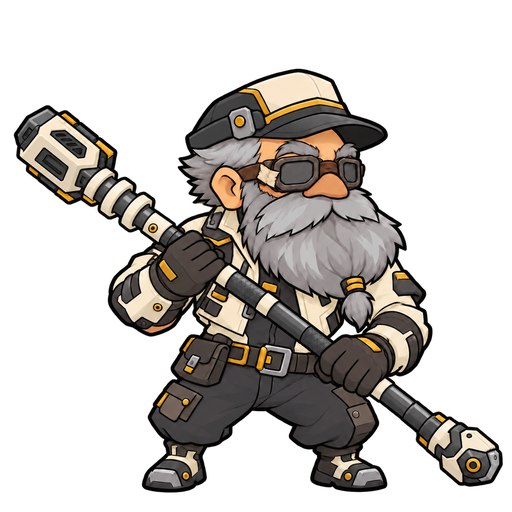
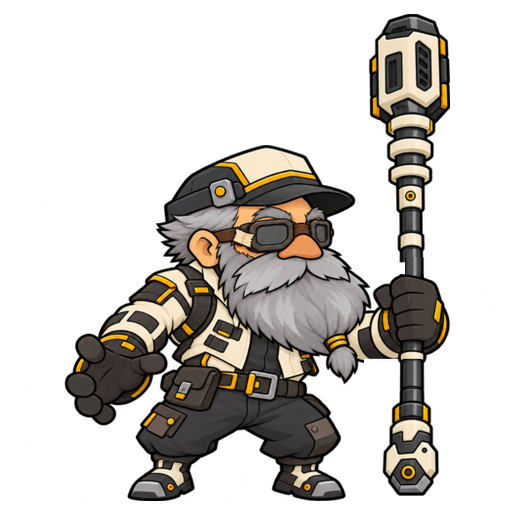
16 네온 카르덴 시작: 새 원화(러스트와 같은 자세, 봉 세워 쥠) 합격 — 마이룸 그림 char_0016 교체, 리그 폴더·STATUS
Claude-Session: https://claude.ai/code/session_015ytCrWApV92AMmnGMogyWc

diff --git a/assets/rig/carden-neon/STATUS.md b/assets/rig/carden-neon/STATUS.md
@@ -1,0 +1,17 @@
+# 16 네온 카르덴 (carden-neon) — 상태
+
+## 2026-10-18 11:00 시작 (DHL "러스트 카르덴과 동일한 걸음, 공격, 모션, 인사 없이" · "핵심조건 기존 러스트와 동일하게")
+- 기준 리그: `assets/rig/carden-rust/` (6 러스트 카르덴 v10). 걸음·찌르기·바지 고정 다리·표정 방식(고글 그대로, 눈썹·코·입만)·게임 연결을 그대로 가져오고 조각·관절점만 새로 잼
+- 결정: 대기·달리기 = 러스트와 같은 자세(먼 손 봉 세워 쥠, 가까운 손 편 장갑) · 찌를 때 앞 = 봉 큰 머리 · **인사 없음**(waveImg 없음, 마이룸 반응은 몸 동작)
+- 요청 그림: 0 새 원화 → 1 조각 시트(6×6, 러스트 31칸 순서, 인사 손 칸 = 땋은 수염 끝) → 2 찌르기 쥔 손 2개(러스트 grip2 구성)
+
+## 11:21 새 원화 받음 (0번) — 합격
+- 러스트 원화(char_0006)와 겹침: 발바닥 500 = 500, 머리 꼭대기 145(모자) / 152(러스트 맨머리), 봉 축 x≈410(러스트 ≈409), 봉 기울기 0.1°, 봉 길이 14→500(러스트 11→500)
+- 다리 벌림이 양쪽으로 약 10px 넓음(가까운 부츠 왼쪽 끝 127 / 137, 먼 부츠 오른쪽 끝 340 / 329) → 다리 관절점은 새로 잼
+- 손: 편 장갑 손가락 4 + 엄지, 봉 쥔 주먹 손가락 4 + 엄지(엄지 위)
+- 봉 길이는 B(대각선 원화)보다 짧음 — 세로로 세우면 B 길이(약 580px)는 512 칸에 안 들어감. 러스트와 같은 길이라 찌르기 값 재사용에 유리
+- 투명 배경, 가장자리 어두운 테(흰 테 없음), 덩어리 1개
+- 게임 마이룸 그림 char_0016.png 교체(11과 같은 방식). 받은 그림 = source/ref512_received.png, 작업본 = source/ref512.png, 예전 대각선 원화 = source/orig_char_0016_diagonal.png
+
+## 다음
+1번 조각 시트·2번 쥔 손 받으면 → 검수 → carden-rust 빌드 복사(build_carden.py·tune.json, wave 블록 뺌) → 조각 자르기·관절점 → 조립 → tools/check.sh → 게임 연결(REGISTRY 16)
